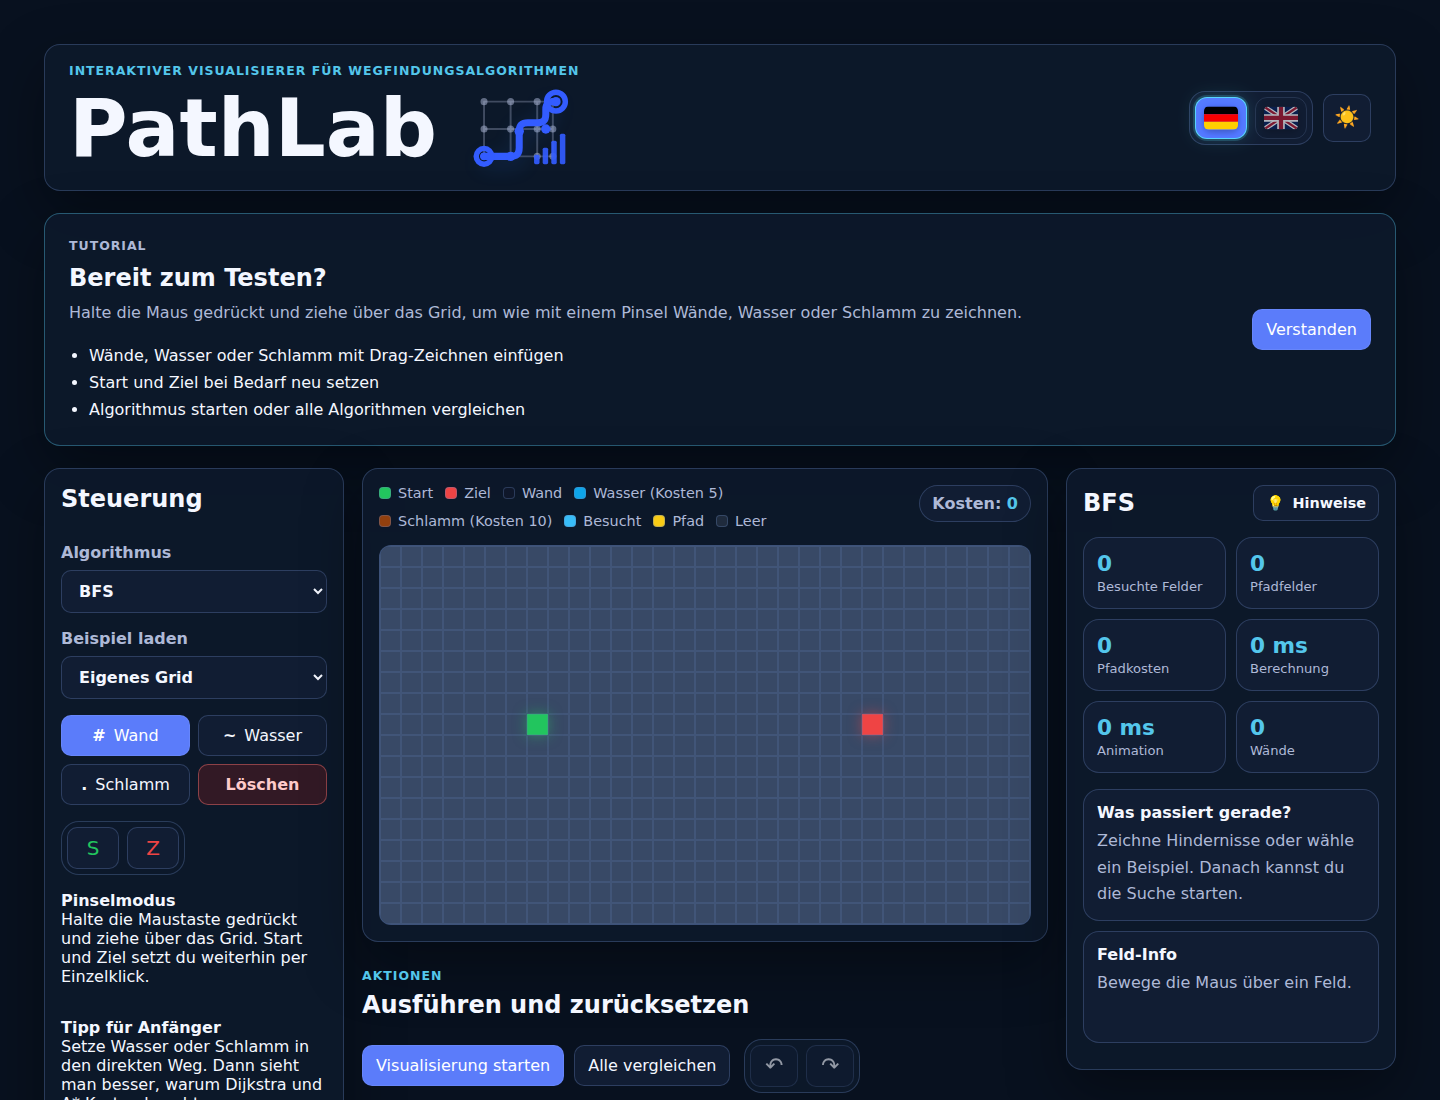
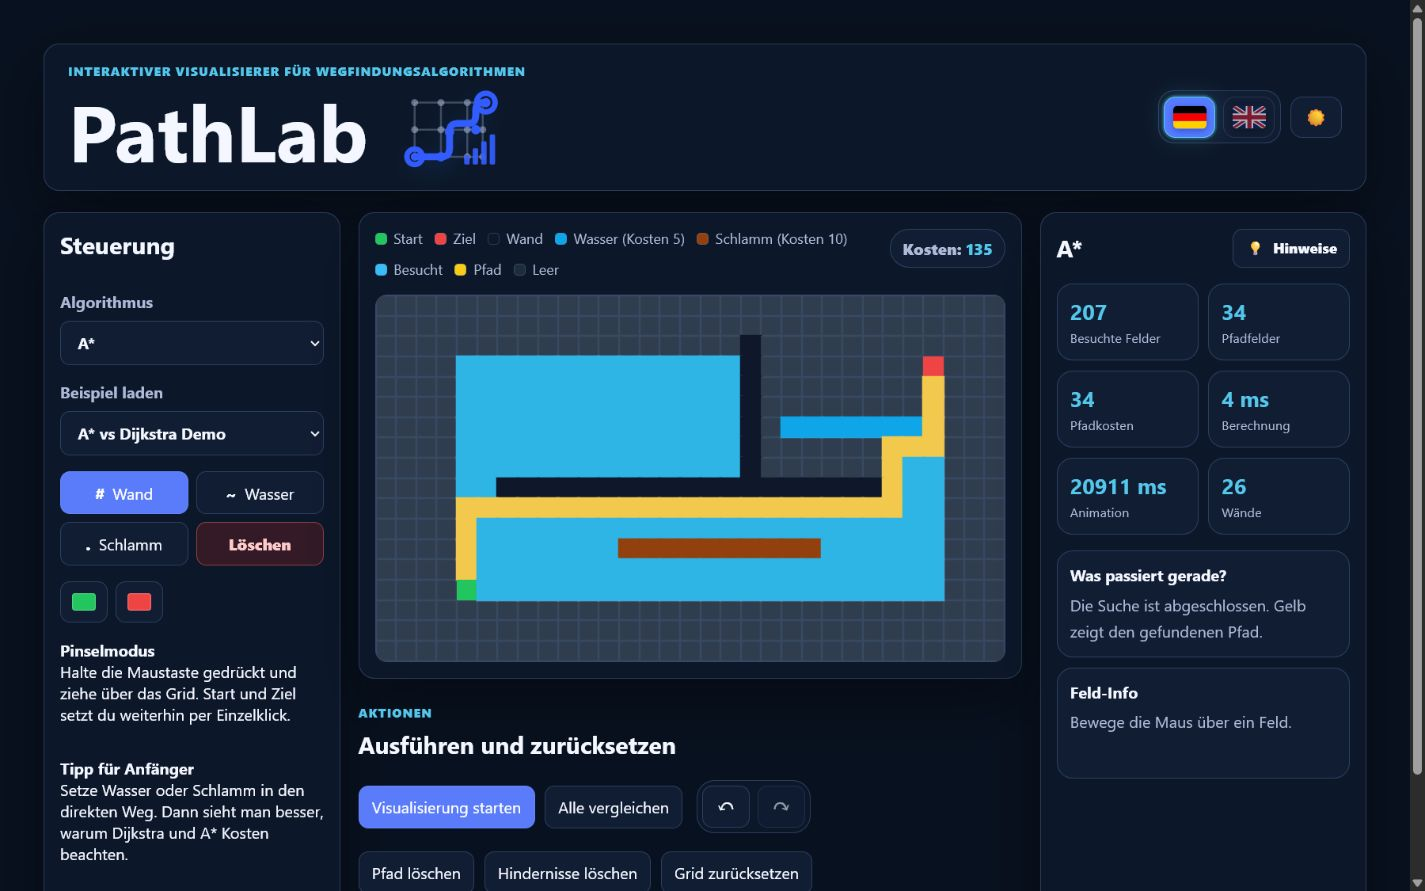
Improve project media presentation

diff --git a/README.md b/README.md
@@ -4,7 +4,7 @@
 
 PathLab ist ein interaktiver Visualizer zum Lernen und Vergleichen von Wegfindungsalgorithmen auf einem gewichteten Raster. Das Projekt ist als IMS-Portfolio-Projekt aufgebaut und zeigt Algorithmen, UI-State, Animationen, Mehrsprachigkeit und automatisierte Tests in einer kleinen React-Anwendung.
 
-- Live-Demo: [https://aleksandros2.github.io/PathLab/](https://aleksandros2.github.io/PathLab/)
+- Live-Demo: [https://alekszyro.github.io/PathLab/](https://alekszyro.github.io/PathLab/)
 - Benutzeranleitung: [Deutsche Benutzeranleitung](BENUTZERANLEITUNG_DE.md)
 
 ![PathLab overview](./docs/screenshots/pathlab-overview.png)
@@ -148,13 +148,15 @@ docs/
 
 ## Screenshot-Bereich
 
-Der Screenshot liegt unter [docs/screenshots/pathlab-overview.png](./docs/screenshots/pathlab-overview.png).
+Der Screenshot liegt unter [docs/screenshots/pathlab-overview.png](./docs/screenshots/pathlab-overview.png) und zeigt ein A*-Beispiel mit gewichteten Feldern, Hindernissen, gefundenem Pfad und sichtbaren Controls.
 
 ## Demo-Bereich
 
 Die Live-Demo wird über GitHub Pages veröffentlicht:
 
-[https://aleksandros2.github.io/PathLab/](https://aleksandros2.github.io/PathLab/)
+[https://alekszyro.github.io/PathLab/](https://alekszyro.github.io/PathLab/)
+
+Ein separates Demo-Video ist aktuell nicht im Repository enthalten. Die Live-Demo und der aktuelle Screenshot decken den wichtigsten Portfolio-Eindruck ab.
 
 ## Dokumentation
 

diff --git a/README_EN.md b/README_EN.md
@@ -4,7 +4,7 @@
 
 PathLab is an interactive visualizer for learning and comparing pathfinding algorithms on a weighted grid. The project is presented as a stable IMS portfolio project and demonstrates algorithms, UI state, animations, internationalization, and automated tests in a compact React application.
 
-- Live demo: [https://aleksandros2.github.io/PathLab/](https://aleksandros2.github.io/PathLab/)
+- Live demo: [https://alekszyro.github.io/PathLab/](https://alekszyro.github.io/PathLab/)
 - User guide: [English beginner guide](USER_GUIDE_EN.md)
 
 ![PathLab overview](./docs/screenshots/pathlab-overview.png)
@@ -148,13 +148,15 @@ docs/
 
 ## Screenshot Section
 
-The screenshot is stored at [docs/screenshots/pathlab-overview.png](./docs/screenshots/pathlab-overview.png).
+The screenshot is stored at [docs/screenshots/pathlab-overview.png](./docs/screenshots/pathlab-overview.png) and shows an A* example with weighted cells, obstacles, the found path, and visible controls.
 
 ## Demo Section
 
 The live demo is published with GitHub Pages:
 
-[https://aleksandros2.github.io/PathLab/](https://aleksandros2.github.io/PathLab/)
+[https://alekszyro.github.io/PathLab/](https://alekszyro.github.io/PathLab/)
+
+A separate demo video is currently not included in the repository. The live demo and the current screenshot cover the most important portfolio impression.
 
 ## Documentation
 

diff --git a/docs/screenshots/README.md b/docs/screenshots/README.md
@@ -4,6 +4,6 @@ Dieser Ordner enthält Portfolio-Screenshots für PathLab.
 
 ## Enthaltene Screenshots
 
-- `pathlab-overview.png`: echter Anwendungsscreenshot der PathLab-Übersicht.
+- `pathlab-overview.png`: echter Anwendungsscreenshot mit A*-Beispiel, sichtbarem Grid, Start, Ziel, Hindernissen, gewichteten Feldern, gefundenem Pfad und Controls.
 
 Der Screenshot wird in der deutschen und englischen README eingebunden.